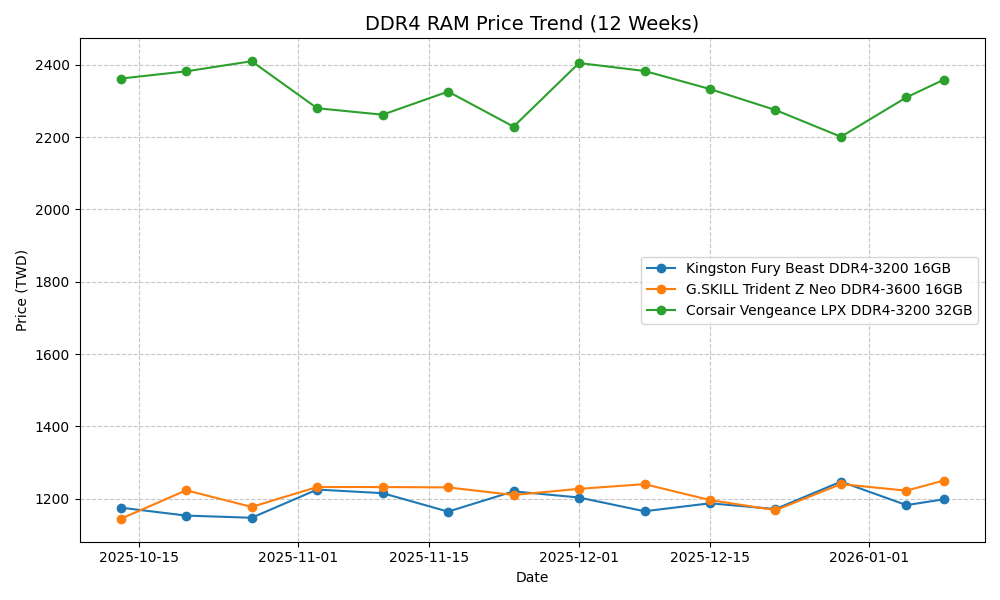
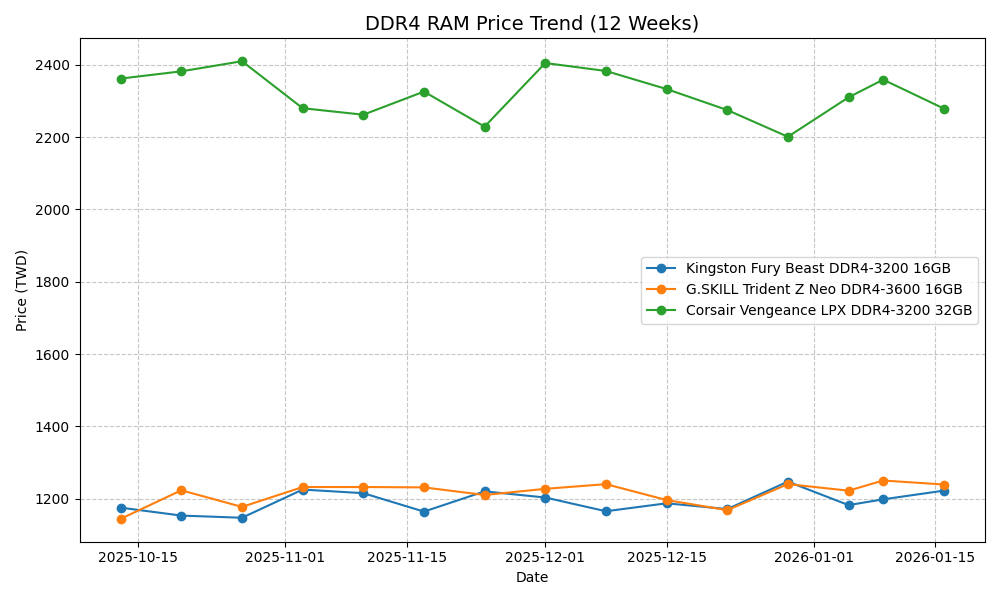
Auto-update: Weekly Price Report

diff --git a/weekly_report.md b/weekly_report.md
@@ -1,11 +1,11 @@
-# 🖥 DDR4 記憶體週報 (2026-01-09)
+# 🖥 DDR4 記憶體週報 (2026-01-16)
 
 ## 1. 價格變動摘要
 | 產品名稱 | 本週價格 | 上週價格 | 漲跌幅 (WoW) | 趨勢 |
 |---|---|---|---|---|
-| Kingston Fury Beast DDR4-3200 16GB | $1198 | $1182 | 1.35% | 🔴 漲 |
-| G.SKILL Trident Z Neo DDR4-3600 16GB | $1250 | $1222 | 2.29% | 🔴 漲 |
-| Corsair Vengeance LPX DDR4-3200 32GB | $2359 | $2310 | 2.12% | 🔴 漲 |
+| Kingston Fury Beast DDR4-3200 16GB | $1222 | $1198 | 2.00% | 🔴 漲 |
+| G.SKILL Trident Z Neo DDR4-3600 16GB | $1239 | $1250 | -0.88% | ⚪ 持平 |
+| Corsair Vengeance LPX DDR4-3200 32GB | $2279 | $2359 | -3.39% | 🟢 跌 |
 
 ## 2. 分析建議
 - **短期趨勢**：請參考附檔趨勢圖。
